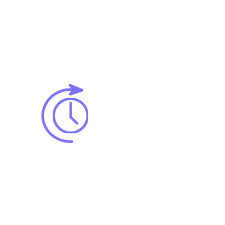
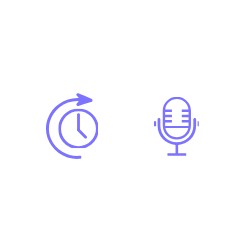
refined: update theme integration; replace hardcoded colors with MyAppTheme colors across multiple screens and widgets

diff --git a/lib/theme/my_app_theme.dart b/lib/theme/my_app_theme.dart
@@ -7,6 +7,25 @@ class MyAppTheme {
   static const Color _darkBackground = Color(0xFF0F0F14);
   static const Color _darkSurface = Color(0xFF1A1A24);
   static const Color _darkCard = Color(0xFF212130);
+  static const Color _darkBorder = Color(0xFF2D2D3A);
+  static const Color _darkText = Color(0xFFE8E8F0);
+  static const Color _darkTextSecondary = Color(0xFFB0B0C0);
+  static const Color _darkError = Color(0xFFFF6B6B);
+  static const Color _darkWarning = Color(0xFFFF9F43);
+  static const Color _darkSuccess = Color(0xFF4CAF50);
+
+  // Semantic color getters for easy access throughout the app
+  static Color get primaryColor => _darkPrimary;
+  static Color get secondaryColor => _darkSecondary;
+  static Color get backgroundColor => _darkBackground;
+  static Color get surfaceColor => _darkSurface;
+  static Color get cardColor => _darkCard;
+  static Color get borderColor => _darkBorder;
+  static Color get textColor => _darkText;
+  static Color get textSecondaryColor => _darkTextSecondary;
+  static Color get errorColor => _darkError;
+  static Color get warningColor => _darkWarning;
+  static Color get successColor => _darkSuccess;
 
   static ThemeData get darkTheme {
     return ThemeData(
@@ -20,17 +39,17 @@ class MyAppTheme {
         surface: _darkSurface,
         onPrimary: Colors.white,
         onSecondary: Colors.white,
-        error: Color(0xFFFF6B6B),
+        error: _darkError,
       ),
 
       appBarTheme: const AppBarTheme(
         backgroundColor: _darkBackground,
         elevation: 0,
-        iconTheme: IconThemeData(color: Color(0xFFE8E8F0)),
+        iconTheme: IconThemeData(color: _darkText),
         titleTextStyle: TextStyle(
           fontSize: 20,
           fontWeight: FontWeight.w600,
-          color: Color(0xFFE8E8F0),
+          color: _darkText,
           letterSpacing: 0.5,
         ),
       ),
@@ -61,7 +80,7 @@ class MyAppTheme {
         shadowColor: Colors.black.withAlpha(150),
         shape: RoundedRectangleBorder(
           borderRadius: BorderRadius.circular(20),
-          side: const BorderSide(color: Color(0xFF2D2D3A), width: 1.5),
+          side: const BorderSide(color: _darkBorder, width: 1.5),
         ),
         margin: const EdgeInsets.symmetric(vertical: 6, horizontal: 0),
       ),
@@ -75,47 +94,47 @@ class MyAppTheme {
         ),
         border: OutlineInputBorder(
           borderRadius: BorderRadius.circular(20),
-          borderSide: const BorderSide(color: Color(0xFF2D2D3A), width: 1.5),
+          borderSide: const BorderSide(color: _darkBorder, width: 1.5),
         ),
         enabledBorder: OutlineInputBorder(
           borderRadius: BorderRadius.circular(20),
-          borderSide: const BorderSide(color: Color(0xFF2D2D3A), width: 1.5),
+          borderSide: const BorderSide(color: _darkBorder, width: 1.5),
         ),
         focusedBorder: OutlineInputBorder(
           borderRadius: BorderRadius.circular(20),
           borderSide: const BorderSide(color: _darkPrimary, width: 2),
         ),
-        hintStyle: TextStyle(
-          color: Colors.grey[500],
+        hintStyle: const TextStyle(
+          color: _darkTextSecondary,
           fontSize: 16,
           fontWeight: FontWeight.w400,
         ),
       ),
 
-      iconTheme: const IconThemeData(color: Color(0xFFE8E8F0), size: 24),
+      iconTheme: const IconThemeData(color: _darkText, size: 24),
 
       textTheme: const TextTheme(
         headlineLarge: TextStyle(
           fontSize: 32,
           fontWeight: FontWeight.bold,
-          color: Color(0xFFE8E8F0),
+          color: _darkText,
           letterSpacing: 0.5,
         ),
         headlineMedium: TextStyle(
           fontSize: 24,
           fontWeight: FontWeight.w600,
-          color: Color(0xFFE8E8F0),
+          color: _darkText,
           letterSpacing: 0.5,
         ),
         bodyLarge: TextStyle(
           fontSize: 16,
           fontWeight: FontWeight.w500,
-          color: Color(0xFFE8E8F0),
+          color: _darkText,
         ),
         bodyMedium: TextStyle(
           fontSize: 14,
           fontWeight: FontWeight.w400,
-          color: Color(0xFFB0B0C0),
+          color: _darkTextSecondary,
         ),
         labelLarge: TextStyle(
           fontSize: 16,
@@ -124,11 +143,8 @@ class MyAppTheme {
         ),
       ),
 
-      dividerColor: const Color(0xFF2D2D3A),
-      dividerTheme: const DividerThemeData(
-        color: Color(0xFF2D2D3A),
-        thickness: 1,
-      ),
+      dividerColor: _darkBorder,
+      dividerTheme: const DividerThemeData(color: _darkBorder, thickness: 1),
     );
   }
 }

diff --git a/lib/screens/home_screen.dart b/lib/screens/home_screen.dart
@@ -52,7 +52,7 @@ class _HomeScreenState extends State<HomeScreen> {
   Widget build(BuildContext context) {
     return Scaffold(
       appBar: AppBar(
-        backgroundColor: Colors.transparent,
+        backgroundColor: MyAppTheme.backgroundColor,
         elevation: 0,
         title: Row(
           children: [
@@ -398,7 +398,7 @@ class _HomeScreenState extends State<HomeScreen> {
       ScaffoldMessenger.of(context).showSnackBar(
         SnackBar(
           content: Text('🔒 This capsule is still locked!'),
-          backgroundColor: Colors.orange.shade700,
+          backgroundColor: MyAppTheme.warningColor,
         ),
       );
       return;
@@ -429,7 +429,7 @@ class _HomeScreenState extends State<HomeScreen> {
       ScaffoldMessenger.of(context).showSnackBar(
         SnackBar(
           content: Text('🔒 Cannot share a locked capsule'),
-          backgroundColor: Colors.orange.shade700,
+          backgroundColor: MyAppTheme.warningColor,
         ),
       );
       return;
@@ -458,11 +458,9 @@ class _HomeScreenState extends State<HomeScreen> {
       SnackBar(
         content: Text(
           '🗑 Deleted: ${capsule.title}',
-          style: TextStyle(
-            color: MyAppTheme.darkTheme.textTheme.bodyLarge?.color,
-          ),
+          style: TextStyle(color: MyAppTheme.textColor),
         ),
-        backgroundColor: Colors.red.shade400,
+        backgroundColor: MyAppTheme.errorColor,
         action: SnackBarAction(
           label: 'UNDO',
           textColor: Colors.white,
@@ -487,7 +485,7 @@ class _HomeScreenState extends State<HomeScreen> {
         borderRadius: BorderRadius.circular(18),
         boxShadow: [
           BoxShadow(
-            color: const Color(0xFF6C63FF).withAlpha(150),
+            color: MyAppTheme.primaryColor.withAlpha(150),
             blurRadius: 12,
             offset: const Offset(0, 4),
           ),
@@ -505,7 +503,7 @@ class _HomeScreenState extends State<HomeScreen> {
             _loadCapsules();
           }
         },
-        backgroundColor: const Color(0xFF6C63FF),
+        backgroundColor: MyAppTheme.primaryColor,
         child: const Icon(Icons.add, size: 32, color: Colors.white),
       ),
     );

diff --git a/lib/widgets/home/search_bar_widget.dart b/lib/widgets/home/search_bar_widget.dart
@@ -1,4 +1,5 @@
 import 'package:flutter/material.dart';
+import 'package:pulse/theme/my_app_theme.dart';
 
 class SearchBarWidget extends StatefulWidget {
   final TextEditingController? controller;
@@ -59,7 +60,7 @@ class _SearchBarWidgetState extends State<SearchBarWidget> {
         border: Border.all(
           color: _isFocused
               ? theme.colorScheme.primary.withAlpha(150)
-              : const Color(0xFF2D2D3A),
+              : MyAppTheme.borderColor,
           width: _isFocused ? 2.0 : 1.5,
         ),
         boxShadow: [
@@ -79,7 +80,9 @@ class _SearchBarWidgetState extends State<SearchBarWidget> {
             duration: const Duration(milliseconds: 200),
             child: Icon(
               Icons.search_rounded,
-              color: _isFocused ? theme.colorScheme.primary : Colors.grey[400],
+              color: _isFocused
+                  ? theme.colorScheme.primary
+                  : MyAppTheme.textSecondaryColor,
               size: 24,
             ),
           ),
@@ -96,7 +99,7 @@ class _SearchBarWidgetState extends State<SearchBarWidget> {
               decoration: InputDecoration(
                 hintText: widget.hintText ?? '   Search capsules...',
                 hintStyle: TextStyle(
-                  color: Colors.grey[500],
+                  color: MyAppTheme.textSecondaryColor,
                   fontSize: 16,
                   letterSpacing: 0.2,
                 ),
@@ -112,7 +115,7 @@ class _SearchBarWidgetState extends State<SearchBarWidget> {
               child: IconButton(
                 icon: Icon(
                   Icons.clear_rounded,
-                  color: Colors.grey[400],
+                  color: MyAppTheme.textSecondaryColor,
                   size: 20,
                 ),
                 onPressed: _clearSearch,

diff --git a/lib/screens/player/audio_player_screen.dart b/lib/screens/player/audio_player_screen.dart
@@ -2,6 +2,7 @@ import 'dart:async';
 import 'package:audioplayers/audioplayers.dart';
 import 'package:flutter/material.dart';
 import 'package:pulse/models/models.dart';
+import 'package:pulse/theme/my_app_theme.dart';
 
 class AudioPlayerScreen extends StatefulWidget {
   final VoiceCapsule capsule;
@@ -119,7 +120,7 @@ class _AudioPlayerScreenState extends State<AudioPlayerScreen> {
 
   void _showError(String message) {
     ScaffoldMessenger.of(context).showSnackBar(
-      SnackBar(content: Text(message), backgroundColor: Colors.red.shade700),
+      SnackBar(content: Text(message), backgroundColor: MyAppTheme.errorColor),
     );
   }
 
@@ -151,10 +152,7 @@ class _AudioPlayerScreenState extends State<AudioPlayerScreen> {
                 decoration: BoxDecoration(
                   color: theme.cardColor,
                   borderRadius: BorderRadius.circular(24),
-                  border: Border.all(
-                    color: const Color(0xFF2D2D3A),
-                    width: 1.5,
-                  ),
+                  border: Border.all(color: MyAppTheme.borderColor, width: 1.5),
                 ),
                 child: Column(
                   children: [
@@ -232,7 +230,7 @@ class _AudioPlayerScreenState extends State<AudioPlayerScreen> {
                   padding: const EdgeInsets.only(bottom: 16),
                   child: Text(
                     _errorMessage!,
-                    style: TextStyle(color: Colors.red.shade400),
+                    style: TextStyle(color: MyAppTheme.errorColor),
                     textAlign: TextAlign.center,
                   ),
                 ),

diff --git a/lib/screens/recording/recording_screen.dart b/lib/screens/recording/recording_screen.dart
@@ -4,6 +4,7 @@ import 'package:path_provider/path_provider.dart';
 import 'package:pulse/models/models.dart';
 import 'package:pulse/services/capsule_database.dart';
 import 'package:pulse/services/notification_service.dart';
+import 'package:pulse/theme/my_app_theme.dart';
 import 'package:record/record.dart';
 import 'package:uuid/uuid.dart';
 
@@ -171,7 +172,7 @@ class _RecordingScreenState extends State<RecordingScreen> {
 
   void _showError(String message) {
     ScaffoldMessenger.of(context).showSnackBar(
-      SnackBar(content: Text(message), backgroundColor: Colors.red.shade700),
+      SnackBar(content: Text(message), backgroundColor: MyAppTheme.errorColor),
     );
   }
 
@@ -188,7 +189,7 @@ class _RecordingScreenState extends State<RecordingScreen> {
           data: Theme.of(context).copyWith(
             colorScheme: ColorScheme.dark(
               primary: Theme.of(context).colorScheme.primary,
-              surface: const Color(0xFF1A1A24),
+              surface: MyAppTheme.surfaceColor,
             ),
           ),
           child: child!,
@@ -205,7 +206,7 @@ class _RecordingScreenState extends State<RecordingScreen> {
             data: Theme.of(context).copyWith(
               colorScheme: ColorScheme.dark(
                 primary: Theme.of(context).colorScheme.primary,
-                surface: const Color(0xFF1A1A24),
+                surface: MyAppTheme.surfaceColor,
               ),
             ),
             child: child!,

diff --git a/lib/screens/played/played_capsules_screen.dart b/lib/screens/played/played_capsules_screen.dart
@@ -2,6 +2,7 @@ import 'package:flutter/material.dart';
 import 'package:pulse/models/models.dart';
 import 'package:pulse/services/capsule_database.dart';
 import 'package:pulse/services/notification_service.dart';
+import 'package:pulse/theme/my_app_theme.dart';
 import 'package:pulse/widgets/home/search_bar_widget.dart';
 import 'package:pulse/widgets/home/capsule_card.dart';
 import 'package:pulse/screens/player/audio_player_screen.dart';
@@ -50,7 +51,7 @@ class _PlayedCapsulesScreenState extends State<PlayedCapsulesScreen> {
     return Scaffold(
       appBar: AppBar(
         title: const Text('Played Capsules'),
-        backgroundColor: Colors.transparent,
+        backgroundColor: MyAppTheme.backgroundColor,
         elevation: 0,
       ),
       body: SafeArea(
@@ -330,7 +331,7 @@ class _PlayedCapsulesScreenState extends State<PlayedCapsulesScreen> {
       ScaffoldMessenger.of(context).showSnackBar(
         SnackBar(
           content: Text('🗑 Deleted: ${capsule.title}'),
-          backgroundColor: Colors.red.shade400,
+          backgroundColor: MyAppTheme.errorColor,
           action: SnackBarAction(
             label: 'UNDO',
             textColor: Colors.white,
